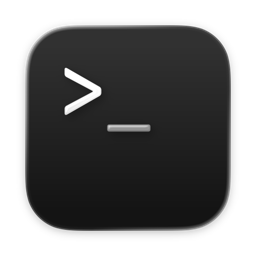
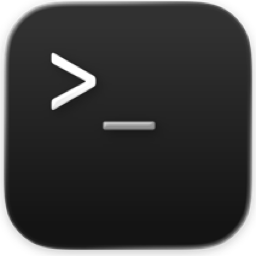
fix(launchpad): put update and remote chips on the name line
- The update label moves from the card's top-right corner to right after
  the tool name.
- The terminal's globe icon becomes a "Remote" text chip in the same
  style as the update label, on the same line.
- The folder icon is larger again (30px).
- The macOS Terminal icon is cropped to its squircle, so it no longer
  looks a size smaller than the other tool icons.

diff --git a/src-ui/src/components/center/CenterPanel.tsx b/src-ui/src/components/center/CenterPanel.tsx
@@ -1510,29 +1510,19 @@ export function CenterPanel() {
                                   }}
                                 >
                                   <div className="launchpad-icon">{tool.icon}</div>
-                                  {!isTerminal && tool.key && <CliUpdateButton tool={tool.key} active={!utilityPageOpen && !configModalTool} installed={installed} />}
                                   <div className="launchpad-card-info">
-                                    <span style={isTerminal ? { display: 'inline-flex', alignItems: 'center', gap: '6px' } : undefined}>
-                                      {tool.label}
-                                      {isTerminal && (
-                                        <span
-                                          className="remote-link-hint"
-                                          onClick={(e) => { e.stopPropagation(); setShowRemoteForm(true); }}
-                                        >
-                                          <svg width="18" height="18" viewBox="0 0 24 24" fill="none" stroke="currentColor" strokeWidth="1.8" strokeLinecap="round" strokeLinejoin="round">
-                                            <circle cx="12" cy="12" r="10"/>
-                                            <path d="M2 12h20"/>
-                                            <path d="M12 2a15.3 15.3 0 0 1 4 10 15.3 15.3 0 0 1-4 10 15.3 15.3 0 0 1-4-10 15.3 15.3 0 0 1 4-10z"/>
-                                          </svg>
-                                        </span>
-                                      )}
-                                    </span>
+                                    {/* Name line: the tool name, then its update or remote chip. */}
+                                    <div className="launchpad-card-title">
+                                      <span className="launchpad-card-name">{tool.label}</span>
+                                      {!isTerminal && tool.key && <CliUpdateButton tool={tool.key} active={!utilityPageOpen && !configModalTool} installed={installed} />}
+                                      {isTerminal && <button type="button" className="launchpad-chip" onClick={(e) => { e.stopPropagation(); setShowRemoteForm(true); }}>{t('launchpad.remote')}</button>}
+                                    </div>
                                     {tool.requiresCwd && (tool.key && lastFolders[tool.key]
                                       ? <span className="launchpad-card-path is-path"><bdi>{homeShortPath(lastFolders[tool.key])}</bdi></span>
                                       : <span className="launchpad-card-path">{t('launchpad.pick_folder')}</span>)}
                                   </div>
                                   {tool.requiresCwd && <button type="button" className="launchpad-folder" aria-label={t('launchpad.open_folder')} disabled={disabled} onClick={event => { event.stopPropagation(); openToolFolderMenu(tool.key, event.currentTarget); }}>
-                                    <svg width="26" height="26" viewBox="0 0 24 24" fill="none" stroke="currentColor" strokeWidth="1.6" strokeLinecap="round" strokeLinejoin="round" aria-hidden="true"><path d="m6 14 1.5-2.9A2 2 0 0 1 9.24 10H20a2 2 0 0 1 1.94 2.5l-1.54 6a2 2 0 0 1-1.95 1.5H4a2 2 0 0 1-2-2V5a2 2 0 0 1 2-2h3.9a2 2 0 0 1 1.69.9l.81 1.2a2 2 0 0 0 1.67.9H18a2 2 0 0 1 2 2v2" /></svg>
+                                    <svg width="30" height="30" viewBox="0 0 24 24" fill="none" stroke="currentColor" strokeWidth="1.5" strokeLinecap="round" strokeLinejoin="round" aria-hidden="true"><path d="m6 14 1.5-2.9A2 2 0 0 1 9.24 10H20a2 2 0 0 1 1.94 2.5l-1.54 6a2 2 0 0 1-1.95 1.5H4a2 2 0 0 1-2-2V5a2 2 0 0 1 2-2h3.9a2 2 0 0 1 1.69.9l.81 1.2a2 2 0 0 0 1.67.9H18a2 2 0 0 1 2 2v2" /></svg>
                                   </button>}
                                   {tool.type === 'ai-cli' && <LaunchModeControl value={tool.key === 'claude' ? claudeLaunchMode : tool.key === 'codex' ? codexLaunchMode : tool.key === 'opencode' ? opencodeLaunchMode : tool.key === 'dsh' ? 'conversation' : 'terminal'} disabled={disabled} label={tool.key === 'codex' ? 'Codex' : tool.key === 'opencode' ? 'OpenCode' : tool.key === 'dsh' ? 'DeepSeek Harness' : undefined} modes={tool.key === 'dsh' ? ['conversation'] : undefined} onChange={tool.key === 'claude' ? changeClaudeLaunchMode : tool.key === 'codex' ? changeCodexLaunchMode : tool.key === 'opencode' ? changeOpencodeLaunchMode : tool.key === 'dsh' ? () => {} : undefined} />}
                                 </div>

diff --git a/src-ui/src/components/center/CenterPanel.css b/src-ui/src/components/center/CenterPanel.css
@@ -717,14 +717,34 @@ body.session-split-dragging { cursor: grabbing; user-select: none; }
   white-space: nowrap;
 }
 
-/* Agent name: ellipsize when the card is squeezed instead of overflowing
-   onto the settings button. The terminal card's inline-flex name (with the
-   remote-link icon) only clips — flex items can't ellipsize — which is
-   fine for its short CJK label. */
-.launchpad-card-info > span:first-child {
+/* Name line: the name ellipsizes first, its update or remote chip stays whole. */
+.launchpad-card-title {
+  display: flex;
+  align-items: center;
+  gap: 8px;
+  min-width: 0;
+}
+.launchpad-card-name {
+  min-width: 0;
   overflow: hidden;
   text-overflow: ellipsis;
 }
+.launchpad-card-title .cli-update-control { position: static; flex-shrink: 0; max-width: none; }
+/* Same chip as the update label, neutral: an entry point, not a notice. */
+.launchpad-card .launchpad-chip {
+  flex-shrink: 0;
+  height: 18px;
+  padding: 1px 4px;
+  border: 0;
+  border-radius: var(--shape-radius-btn, 4px);
+  background: transparent;
+  color: var(--text-3);
+  font: 500 11px/1.3 var(--font-nav, var(--font));
+  white-space: nowrap;
+  cursor: pointer;
+}
+.launchpad-card .launchpad-chip:hover { background: var(--bg-hover); color: var(--text-1); }
+.launchpad-card .launchpad-chip:focus-visible { outline: 1px solid var(--accent); outline-offset: -1px; }
 
 /* Second line: the tool's last project folder, or a hint before its first use.
    A long path keeps its end (the folder name) and elides its start. */
@@ -1043,24 +1063,6 @@ body.session-split-dragging { cursor: grabbing; user-select: none; }
 }
 
 /* ─── Terminal Card Subtle Remote Hint ─── */
-
-.remote-link-hint {
-  flex-shrink: 0;
-  display: flex;
-  align-items: center;
-  justify-content: center;
-  padding: 4px;
-  color: var(--text-3);
-  opacity: 0.18;
-  cursor: pointer;
-  background: transparent;
-  border: none;
-  transition: opacity 0.15s;
-}
-
-.remote-link-hint:hover {
-  opacity: 0.7;
-}
 
 /* ─── Remote Terminal Connection Form ─── */
 

diff --git a/src-ui/src/i18n/ru.ts b/src-ui/src/i18n/ru.ts
@@ -252,6 +252,7 @@ export const ru = {
   'changes.empty': 'Изменений пока нет.',
   'launchpad.open_folder': 'Открыть папку',
   'launchpad.pick_folder': 'Выберите папку проекта',
+  'launchpad.remote': 'Удалённо',
   'launchpad.detect_help_trigger': "Не определяется?",
   'launchpad.detect_help_tip': "Если вы пользовались ИИ-терминалом, созданным англоязычными разработчиками, он мог испортить сегменты PATH с символами CJK или другими не-ASCII (модзибакэ), поэтому ни один терминал не определяет ваши инструменты. 3 способа исправить: ① Переустановить ИИ-инструмент ② Исправить PATH вручную ③ Пусть ИИ исправит PATH",
   'launchpad.switch_model_trigger': "Сменить модель",

diff --git a/src-ui/src/i18n/ja.ts b/src-ui/src/i18n/ja.ts
@@ -252,6 +252,7 @@ export const ja = {
   'changes.empty': 'まだ変更はありません。',
   'launchpad.open_folder': 'フォルダを開く',
   'launchpad.pick_folder': 'プロジェクトフォルダを選択',
+  'launchpad.remote': 'リモート',
   'launchpad.detect_help_trigger': "検出できない?",
   'launchpad.detect_help_tip': "英語圏開発者が制作した AI ターミナルツールを使ったことがある場合、中日韓などの非 ASCII 文字を含む PATH が文字化けし、すべてのターミナルで検出できなくなることがあります。3つの修復方法 ① 当該 AI ツールを再インストール ② ツールの PATH を手動で修復 ③ AI に PATH の修復を任せる",
   'launchpad.switch_model_trigger': "モデル切替",

diff --git a/src-ui/src/i18n/vi.ts b/src-ui/src/i18n/vi.ts
@@ -254,6 +254,7 @@ export const vi = {
   'changes.empty': 'Chưa có thay đổi.',
   'launchpad.open_folder': 'Mở thư mục',
   'launchpad.pick_folder': 'Chọn thư mục dự án',
+  'launchpad.remote': 'Từ xa',
   'launchpad.detect_help_trigger': "Không nhận diện?",
   'launchpad.detect_help_tip': "Nếu bạn từng dùng công cụ terminal AI do các nhà phát triển chỉ hỗ trợ tiếng Anh tạo ra, nó có thể làm hỏng các đoạn PATH chứa ký tự CJK hoặc không phải ASCII (mojibake), khiến mọi terminal đều không nhận diện được công cụ của bạn. 3 cách khắc phục: ① Cài lại công cụ AI ② Sửa PATH thủ công ③ Để AI sửa PATH giúp bạn",
   'launchpad.switch_model_trigger': "Đổi mô hình",

diff --git a/src-ui/src/i18n/fr.ts b/src-ui/src/i18n/fr.ts
@@ -252,6 +252,7 @@ export const fr = {
   'changes.empty': 'Aucune modification pour le moment.',
   'launchpad.open_folder': 'Ouvrir un dossier',
   'launchpad.pick_folder': 'Choisir un dossier de projet',
+  'launchpad.remote': 'Distant',
   'launchpad.detect_help_trigger': "Non détecté ?",
   'launchpad.detect_help_tip': "Si vous avez utilisé un outil terminal d'IA conçu par des développeurs anglophones uniquement, il a pu corrompre les segments de PATH contenant des caractères CJK ou non-ASCII (mojibake), empêchant tout terminal de détecter vos outils. 3 solutions : ① Réinstaller l'outil d'IA ② Corriger le PATH manuellement ③ Laisser l'IA corriger le PATH",
   'launchpad.switch_model_trigger': "Changer de modèle",

diff --git a/src-ui/src/i18n/es.ts b/src-ui/src/i18n/es.ts
@@ -252,6 +252,7 @@ export const es = {
   'changes.empty': 'Aún no hay cambios.',
   'launchpad.open_folder': 'Abrir carpeta',
   'launchpad.pick_folder': 'Elige una carpeta de proyecto',
+  'launchpad.remote': 'Remoto',
   'launchpad.detect_help_trigger': "¿No se detecta?",
   'launchpad.detect_help_tip': "Si has usado una herramienta de terminal de IA hecha por desarrolladores anglófonos, puede haber corrompido los segmentos de PATH con CJK u otros caracteres no ASCII (mojibake), por lo que ningún terminal logra detectar tus herramientas. 3 soluciones: ① Reinstalar la herramienta de IA ② Arreglar el PATH manualmente ③ Dejar que la IA arregle el PATH",
   'launchpad.switch_model_trigger': "Cambiar modelo",

diff --git a/src-ui/src/i18n/ko.ts b/src-ui/src/i18n/ko.ts
@@ -252,6 +252,7 @@ export const ko = {
   'changes.empty': '아직 변경 사항이 없습니다.',
   'launchpad.open_folder': '폴더 열기',
   'launchpad.pick_folder': '프로젝트 폴더 선택',
+  'launchpad.remote': '원격',
   'launchpad.detect_help_trigger': "인식 안 됨?",
   'launchpad.detect_help_tip': "영어권 개발자가 만든 AI 터미널 도구를 사용한 적이 있다면, 중일한 등 다른 언어 문자가 포함된 PATH가 깨져서 모든 터미널에서 인식하지 못할 수 있습니다. 3가지 복구 방법 ① 해당 AI 도구 재설치 ② 도구 PATH 수동 복구 ③ AI가 PATH를 복구하도록 맡기기",
   'launchpad.switch_model_trigger': "모델 전환",

diff --git a/src-ui/src/i18n/pt.ts b/src-ui/src/i18n/pt.ts
@@ -252,6 +252,7 @@ export const pt = {
   'changes.empty': 'Ainda sem alterações.',
   'launchpad.open_folder': 'Abrir pasta',
   'launchpad.pick_folder': 'Escolher pasta do projeto',
+  'launchpad.remote': 'Remoto',
   'launchpad.detect_help_trigger': "Não detectado?",
   'launchpad.detect_help_tip': "Se você usou uma ferramenta de terminal de IA feita por desenvolvedores anglófonos, ela pode ter corrompido segmentos de PATH com caracteres CJK ou não-ASCII (mojibake), fazendo com que nenhum terminal detecte suas ferramentas. 3 formas de corrigir: ① Reinstalar a ferramenta de IA ② Corrigir o PATH manualmente ③ Deixar a IA corrigir o PATH",
   'launchpad.switch_model_trigger': "Trocar modelo",

diff --git a/src-ui/src/i18n/de.ts b/src-ui/src/i18n/de.ts
@@ -252,6 +252,7 @@ export const de = {
   'changes.empty': 'Noch keine Änderungen.',
   'launchpad.open_folder': 'Ordner öffnen',
   'launchpad.pick_folder': 'Projektordner wählen',
+  'launchpad.remote': 'Remote',
   'launchpad.detect_help_trigger': "Nicht erkannt?",
   'launchpad.detect_help_tip': "Falls Sie ein von englischsprachigen Entwicklern erstelltes KI-Terminal-Tool genutzt haben, könnte es PATH-Segmente mit CJK- oder anderen Nicht-ASCII-Zeichen verstümmelt haben (Mojibake), sodass kein Terminal Ihre Tools mehr erkennt. 3 Lösungswege: ① KI-Tool neu installieren ② PATH manuell korrigieren ③ PATH von der KI korrigieren lassen",
   'launchpad.switch_model_trigger': "Modell wechseln",

diff --git a/src-ui/src/i18n/en.ts b/src-ui/src/i18n/en.ts
@@ -252,6 +252,7 @@ export const en = {
   'changes.empty': 'No changes yet.',
   'launchpad.open_folder': 'Open Folder',
   'launchpad.pick_folder': 'Choose a project folder',
+  'launchpad.remote': 'Remote',
   'launchpad.detect_help_trigger': "Can't detect?",
   'launchpad.detect_help_tip': "If you've used an AI terminal tool made by English-only developers, it may have garbled PATH segments with CJK or other non-ASCII characters into mojibake, so all terminals fail to detect your tools. 3 fixes: ① Reinstall the AI tool ② Manually fix the tool's PATH ③ Let AI fix the PATH for you",
   'launchpad.switch_model_trigger': "Switch model",

diff --git a/src-ui/src/i18n/zh-CN.ts b/src-ui/src/i18n/zh-CN.ts
@@ -252,6 +252,7 @@ export const zhCN = {
   'changes.empty': '暂无修改。',
   'launchpad.open_folder': '打开文件夹',
   'launchpad.pick_folder': '选择项目目录',
+  'launchpad.remote': '远程',
   'launchpad.detect_help_trigger': "识别不到?",
   'launchpad.detect_help_tip': "若你曾经用过英文开发者制作的 AI 终端工具,可能把含中日韩等其他语言字符的 PATH 改成乱码,导致所有终端都识别不到。3种修复方案 ① 重装该 AI 工具 ② 手动修复工具 PATH ③ 让 AI 帮你修复 PATH",
   'launchpad.switch_model_trigger': "切换模型",
